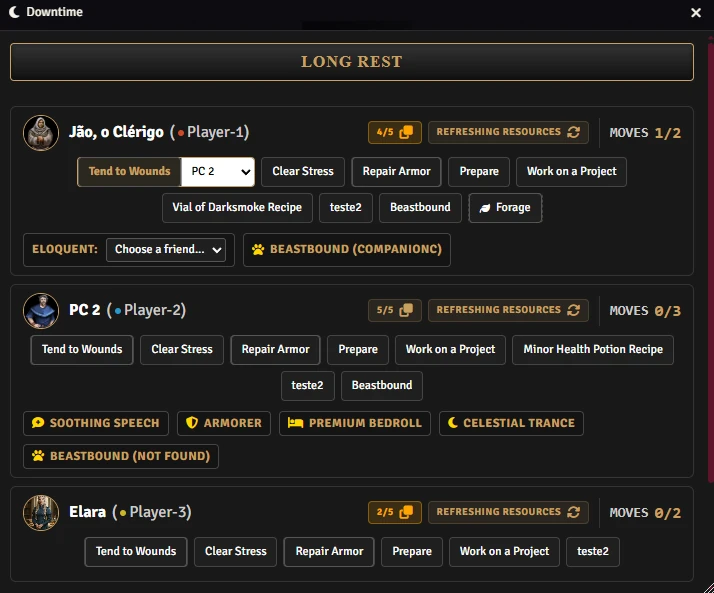
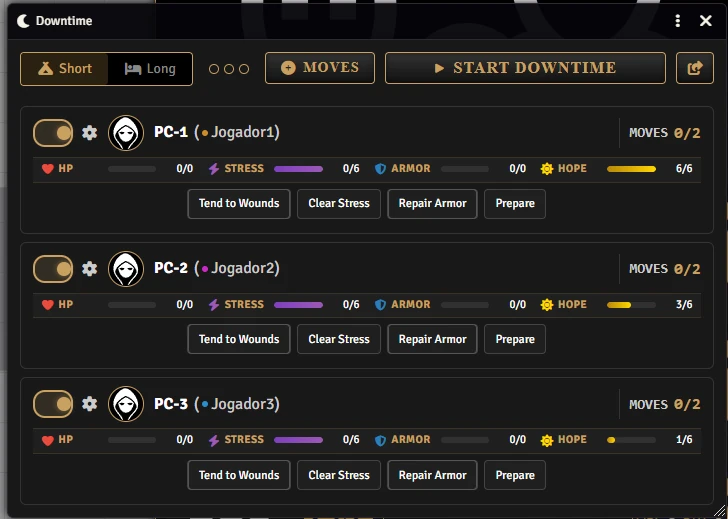
0.4.3

diff --git a/scripts/main.js b/scripts/main.js
@@ -233,6 +233,33 @@ Hooks.on("ready", async () => {
 });
 
 // ==================================================================
+// PARTY SHEET HOOK — Replace rest buttons with Downtime button (GM only)
+// ==================================================================
+Hooks.on("renderParty", (app, html) => {
+    // Always remove Short Rest and Long Rest buttons — this module replaces them
+    html.querySelectorAll('button[data-action="triggerRest"]').forEach(btn => btn.remove());
+
+    if (!game.user.isGM) return;
+    if (html.querySelector(".dqa-downtime-party-btn")) return;
+
+    const actionsSection = html.querySelector(".actions-section");
+    if (!actionsSection) return;
+
+    const btn = document.createElement("button");
+    btn.type = "button";
+    btn.classList.add("dqa-downtime-party-btn");
+    btn.innerHTML = `<i class="fa-solid fa-moon"></i><span>Downtime</span>`;
+
+    btn.addEventListener("click", (e) => {
+        e.preventDefault();
+        e.stopPropagation();
+        activateDowntimeUI();
+    });
+
+    actionsSection.appendChild(btn);
+});
+
+// ==================================================================
 // RENDER MENU HOOK
 // ==================================================================
 Hooks.on("renderDaggerheartMenu", (app, element, data) => {

diff --git a/README.md b/README.md
@@ -10,6 +10,9 @@ This module streamlines the flow of gameplay by providing quick access to common
 
 <p align="center"><img width="900" src="docs/feature.webp"></p>
 
+
+[![Buy Me a Coffee](https://img.shields.io/badge/Buy%20Me%20a%20Coffee-Donate-red?style=for-the-badge&logo=buy-me-a-coffee)](https://buymeacoffee.com/mestredigital)
+
 ## 🌟 Features
 
 ### 🛠️ Core Utilities
@@ -29,6 +32,7 @@ This module streamlines the flow of gameplay by providing quick access to common
 ### 🕹️ Interface Integration
 
 * **Sidebar Menu:** Adds a "Quick Actions" section to the Daggerheart System Menu for easy access.
+* **Party Sheet:** Replaces the built-in Short Rest and Long Rest buttons with a **Downtime** button (visible to the GM only) that opens the full Downtime UI directly from the party sheet.
 * **Macro Palette:** Create custom palettes of macros using `QuickActions.ShowMacros()`.
 
 ## ⚙️ Usage
@@ -135,19 +139,23 @@ https://raw.githubusercontent.com/brunocalado/daggerheart-quickactions/main/modu
 | Module | Description |
 | :--- | :--- |
 | 💀 [**Adversary Manager**](https://github.com/brunocalado/daggerheart-advmanager) | Scale adversaries instantly and build balanced encounters in Foundry VTT. |
+| 🌟 [**Best Modules**](https://github.com/brunocalado/dh-best-modules) | A curated collection of essential modules to enhance the Daggerheart experience. |
+| 🐉 [**Colossus**](https://github.com/brunocalado/dh-colossus) | Manage massive multi-part boss encounters with independent HP per part and a single shared stress pool. |
 | 💥 [**Critical**](https://github.com/brunocalado/daggerheart-critical) | Animated Critical. |
 | 💠 [**Custom Stat Tracker**](https://github.com/brunocalado/dh-new-stat-tracker) | Add custom trackers to actors. |
-| ☠️ [**Death Moves**](https://github.com/brunocalado/daggerheart-death-moves) | Enhances the Death Move moment with immersive audio and visual effects. |
+| ☠️ [**Death Moves**](https://github.com/brunocalado/daggerheart-death-moves) | Enhances the Death Move moment with a dramatic interface and full automation. |
 | 📏 [**Distances**](https://github.com/brunocalado/daggerheart-distances) | Visualizes combat ranges with customizable rings and hover calculations. |
 | 📦 [**Extra Content**](https://github.com/brunocalado/daggerheart-extra-content) | Homebrew for Daggerheart. |
-| 🤖 [**Fear Macros**](https://github.com/brunocalado/daggerheart-fear-macros) | Automatically executes macros when the Fear resource is changed. |
+| 🤖 [**Resource Macros**](https://github.com/brunocalado/daggerheart-fear-macros) | Automatically executes macros when the Fear or Hope resources are changed. |
 | 😱 [**Fear Tracker**](https://github.com/brunocalado/daggerheart-fear-tracker) | Adds an animated slider bar with configurable fear tokens to the UI. |
+| 🧟 [**Horde**](https://github.com/brunocalado/dh-horde) | Explode single horde tokens into dozens of individual tokens and manage their movement and stats automatically. |
 | 🎁 [**Mystery Box**](https://github.com/brunocalado/dh-mystery-box) | Introduces mystery box mechanics for random loot and surprises. |
 | ⚡ [**Quick Actions**](https://github.com/brunocalado/daggerheart-quickactions) | Quick access to common mechanics like Falling Damage, Downtime, etc. |
 | 📜 [**Quick Rules**](https://github.com/brunocalado/daggerheart-quickrules) | Fast and accessible reference guide for the core rules. |
 | 🎲 [**Stats**](https://github.com/brunocalado/daggerheart-stats) | Tracks dice rolls from GM and Players. |
 | 🧠 [**Stats Toolbox**](https://github.com/brunocalado/dh-statblock-importer) | Import using a statblock. |
 | 🛒 [**Store**](https://github.com/brunocalado/daggerheart-store) | A dynamic, interactive, and fully configurable store for Foundry VTT. |
+| 🔍 [**Unidentified**](https://github.com/brunocalado/dh-unidentified) | Obfuscates item names and descriptions until they are identified by the players. |
 
 # 🗺️ Adventures
 

diff --git a/CHANGELOG.md b/CHANGELOG.md
@@ -1,3 +1,8 @@
+# 0.4.3
+
+- [Changed] Party Sheet: removed Short Rest and Long Rest buttons from the party sheet actions bar — they are replaced by the Downtime UI button
+- [Added] Party Sheet: Downtime button injected into the party sheet actions bar (GM only) — opens the Downtime UI directly from the party sheet
+
 # 0.4.2
 
 - [Added] Loot Consumable: rolled items are now automatically added to the rolling user's linked actor's inventory (if one exists)